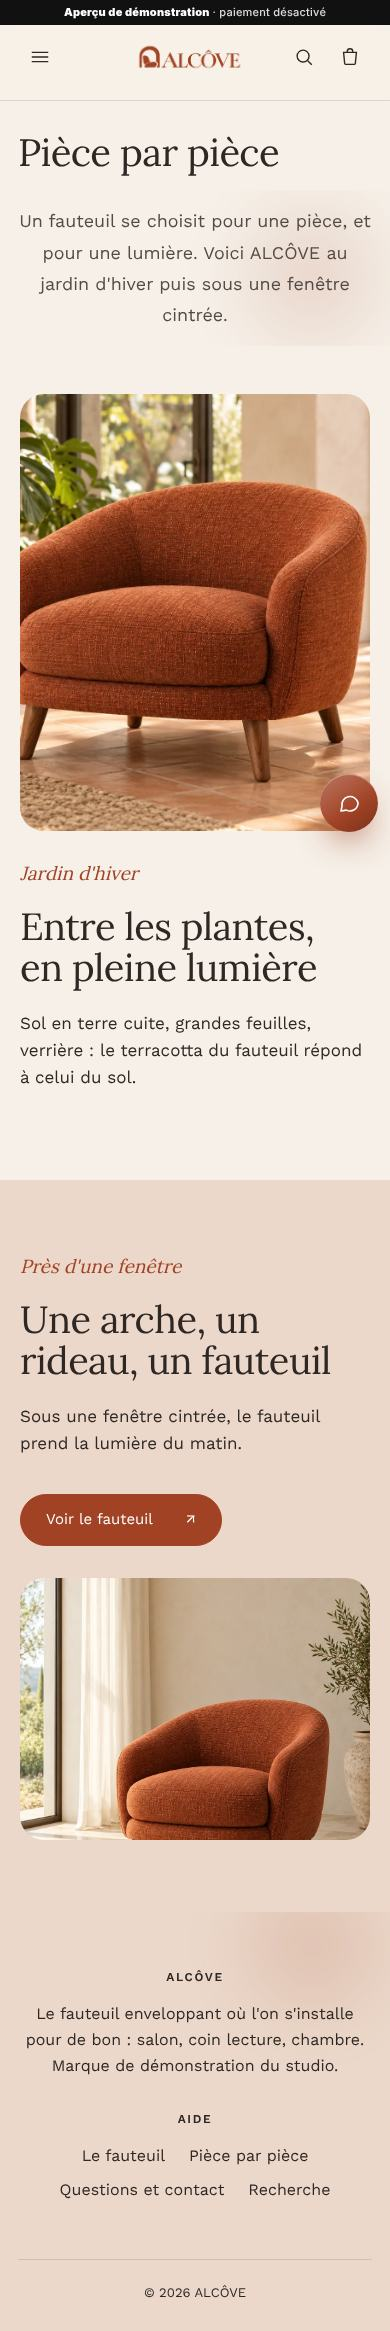
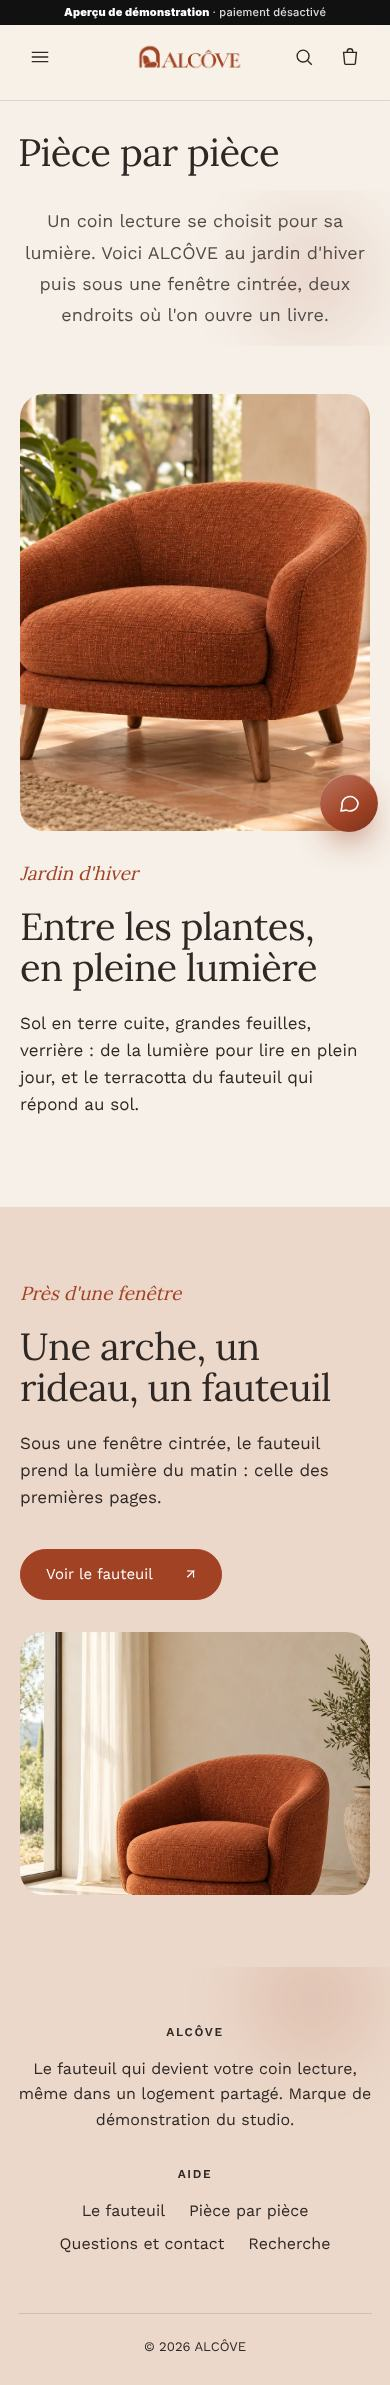
ALCÔVE : « une alcôve à soi », le coin lecture dans un logement partagé (consigne de Thomas, 21 h 45)
- Cible : le lecteur en logement partagé ; « le canapé est à tout le monde, ce fauteuil est à vous » ; « Là où vous
  lisez », « Sous la lampe, un chapitre de plus », vue de dessus « un livre à côté ».
- FAQ : où l'installer dans un logement partagé, quelle place il prend (dimensions non renseignées, dit honnêtement),
  le terracotta, l'aspect de près. Fiche, « Pièce par pièce », aide, pied, SEO. Captures régénérées.

Claude-Session: https://claude.ai/code/session_01EKtK8Za16S8DnNDefXRRF7

diff --git a/tests/heuren-alcove-fixtures.ts b/tests/heuren-alcove-fixtures.ts
@@ -87,21 +87,22 @@ export const HEUREN_FAQ_PENDING: [string, string][] = [
   ["Le bracelet se change-t-il ?", TODO("système d'attache et largeur du bracelet")],
   ["Quelle est la garantie ?", TODO("durée et conditions de garantie")],
 ];
-// ALCÔVE — fiche de stratégie (même consigne) :
-//  1. cible : une personne qui n'a pas de siège à elle dans un intérieur partagé et s'assoit toujours « en attendant » :
-//     un coin de canapé, une chaise de table ;
-//  2. tension : « Je ne suis jamais vraiment installé : toujours sur un coin de canapé. » ;
-//  3. désir : s'installer enfin, entouré de chaque côté — angle unique : s'asseoir pour de bon ;
-//  4. promesse tenable : un fauteuil dont le dossier et les accoudoirs forment un seul arrondi autour d'un coussin épais ;
-//     faits = visuels (silhouette, tissu terracotta texturé, pieds en bois brun, pièces photographiées) ; dimensions,
-//     tissu, rembourrage, entretien et montage inconnus ;
-//  5. objections : la pièce où le mettre, le terracotta avec son intérieur, l'aspect de près, prix, dimensions et commande
-//     (information dédiée) ;
-//  6. parcours : ouverture (fini le coin de canapé) → repères (ce qui vous entoure) → l'idée → sa place (lecture, chambre)
-//     → le soir → achat → FAQ « Avant de lui faire une place » → inscription.
+// ALCÔVE — fiche de stratégie (consigne de Thomas du 21 octobre, 21 h 45 ; brief, hypothèse éditoriale) :
+//  utilisateur et acheteur : un lecteur qui vit dans un logement partagé (colocation, famille) ;
+//  situation d'achat : il lit sur un coin de canapé que tout le monde utilise, ou sur son lit, faute de mieux ;
+//  tension (ses mots) : « Chez nous, le canapé est à tout le monde : je n'ai pas d'endroit pour lire tranquille. » ;
+//  désir : un espace à soi, que l'on a envie de retrouver ;
+//  angle unique : créer son coin lecture à soi ;
+//  promesse tenable : un fauteuil dont le dossier et les accoudoirs forment un seul arrondi autour d'un coussin épais,
+//  qui trouve sa place dans une chambre ou un coin de salon ; faits = visuels (silhouette, tissu terracotta texturé,
+//  pieds en bois brun, coin lecture, livre, lampe, pièces photographiées) ;
+//  objections : où l'installer, la place qu'il prend (dimensions non renseignées : le dire), le terracotta, l'aspect de
+//  près, prix et commande (information dédiée) ;
+//  exclusions : aucun confort, maintien, dimension, tissu, rembourrage ni montage inventés.
 export const ALCOVE_FAQ: [string, string][] = [
-  ["Dans quelle pièce le mettre ?", "Là où vous voulez vous poser : salon, coin lecture, chambre, près d'une fenêtre ou dans un jardin d'hiver. Nos photos le montrent dans chacune de ces pièces."],
-  ["Le terracotta ira-t-il avec mon intérieur ?", "Sur nos photos, il côtoie des bois chauds, du lin, des tapis tressés et des plantes ; contre un mur clair, il réchauffe la pièce sans la charger."],
+  ["Où l'installer dans un logement partagé ?", "Dans votre chambre, au pied du lit, ou dans un coin du salon près d'une fenêtre : là où la lumière vous permet de lire. Nos photos le montrent dans un coin lecture, une chambre et sous une fenêtre."],
+  ["Quelle place prend-il ?", "Ses dimensions ne sont pas encore renseignées dans cette démonstration : mesurez votre coin avant de le choisir."],
+  ["Le terracotta ira-t-il avec le reste de la pièce ?", "Sur nos photos, il côtoie des bois chauds, du lin, des tapis tressés et des plantes ; contre un mur clair, il réchauffe la pièce sans la charger."],
   ["À quoi ressemble-t-il de près ?", "Un tissu terracotta à la texture visible, un coussin d'assise épais et des pieds courts en bois brun : tous les gros plans sont sur la fiche."],
   ["Que puis-je faire dans cette boutique de démonstration ?", "Faire le tour du fauteuil en cinq vues et le voir dans plusieurs pièces. Le prix, les dimensions et la composition du tissu ne sont pas encore renseignés, et la commande est désactivée."],
 ];
@@ -126,7 +127,7 @@ const BRANDS: Record<ShopKitId, Brand> = {
     name: "ALCÔVE", product: "Fauteuil ALCÔVE terracotta", category: "Fauteuil",
     summary: "Fauteuil enveloppant au tissu terracotta texturé : dossier et accoudoirs arrondis d'un seul tenant, coussin d'assise épais, quatre pieds courts en bois brun.",
     facts: [["Silhouette", "dossier et accoudoirs arrondis, coussin d'assise épais"], ["Pieds", "quatre pieds courts en bois brun"]],
-    tagline: "Une alcôve à soi.", story: "ALCÔVE est né d'une envie simple : un fauteuil sans angle, dans la couleur chaude de la terre cuite.", positioning: "Un fauteuil enveloppant pour le salon, le coin lecture et la chambre.",
+    tagline: "Une alcôve à soi.", story: "ALCÔVE est né pour les lecteurs qui partagent leur logement : un fauteuil qui devient leur coin à eux.", positioning: "Un fauteuil enveloppant pour créer son coin lecture, même dans un logement partagé.",
     // Terre cuite du logo et du tissu, sable des fonds, bois des pieds.
     palette: { primary: "#A14225", secondary: "#EEE8E1", accent: "#5A3A24", light: "#F6F0E8", dark: "#2B1A12" },
   },
@@ -242,43 +243,43 @@ function curateHeuren(k: Kit) {
 function curateAlcove(k: Kit) {
   const { spec, img, section, overlay, faq, productHref } = k;
   k.demoMeta();
-  spec.store.seo = { title: "ALCÔVE | Fauteuil enveloppant terracotta, pour s'asseoir pour de bon", description: "Fini le coin de canapé : le fauteuil ALCÔVE, dossier et accoudoirs d'un seul arrondi, coussin épais, tissu terracotta et pieds en bois brun." };
+  spec.store.seo = { title: "ALCÔVE | Le fauteuil terracotta pour créer votre coin lecture", description: "Dans un logement partagé, le canapé est à tout le monde : le fauteuil ALCÔVE devient votre coin lecture, un arrondi autour d'un coussin épais." };
   k.product({
     title: "Fauteuil ALCÔVE terracotta",
-    description_html: p("Son rôle : vous donner un siège à vous, où l'on s'installe au lieu d'attendre sur un coin de canapé.") + p("Ce qu'on voit : un dossier et des accoudoirs d'un seul arrondi autour d'un coussin d'assise épais, un tissu terracotta à la texture visible, quatre pieds courts en bois brun.") + p("Où le mettre : au salon, dans un coin lecture, au pied du lit ou près d'une fenêtre ; nos photos le montrent dans chacune de ces pièces."),
+    description_html: p("Son rôle : devenir votre coin lecture, dans un logement où le canapé est à tout le monde.") + p("Ce qu'on voit : un dossier et des accoudoirs d'un seul arrondi autour d'un coussin d'assise épais, un tissu terracotta à la texture visible, quatre pieds courts en bois brun.") + p("Où le mettre : dans votre chambre, au pied du lit, ou dans un coin de salon près d'une fenêtre ; nos photos le montrent dans chacune de ces places. Ses dimensions ne sont pas encore renseignées."),
     images: ["produit-01.webp", "produit-02.webp", "produit-03.webp", "produit-04.webp", "produit-05.webp"],
-    tags: ["fauteuil", "terracotta", "salon"],
+    tags: ["fauteuil", "terracotta", "coin lecture"],
     seo: { title: "Fauteuil ALCÔVE terracotta : vues, courbes et tissu en détail", description: "Faites le tour du fauteuil ALCÔVE : trois quarts, face, profil, dos et tissu terracotta en gros plan, puis le fauteuil vu d'en haut et en situation." },
   });
 
   // ─── Accueil : une alcôve, des courbes, des pièces, puis le soir. ─────────────────────────────────────────────────
   overlay("index", [
-    section("ed-opening", { ...img("ambiance-07.webp"), layout: "arch", heading_tag: "h1", label: "Fauteuil enveloppant", heading: "Une alcôve\nà soi.", text: p("Fini le coin de canapé : un dossier et des accoudoirs d'un seul arrondi autour d'un coussin épais, dans la couleur chaude de la terre cuite."), button_label: "Voir le fauteuil", button_link: productHref, focus_x: 50, focus_y: 62, mobile_focus_x: 50, mobile_focus_y: 62, copy_surface: true, caption: "", motion: "reveal", padding_top: 48, padding_bottom: 72 }),
-    section("fs-lookbook", { ...img("ambiance-01.webp"), layout: "side", eyebrow: "Ses courbes", heading: "Ce qui vous entoure,", heading_accent: "de chaque côté", text: p("Touchez un repère : le dossier, les accoudoirs, le coussin et les pieds, un par un."), align: "left", button_label: "", button_link: "", link_label: "Voir le fauteuil", focus_x: 62, focus_y: 55, effect: "fade", stagger: true, hover: false, background: "scheme", color_scheme: "scheme-2" }, [
+    section("ed-opening", { ...img("ambiance-07.webp"), layout: "arch", heading_tag: "h1", label: "Votre coin lecture", heading: "Une alcôve\nà soi.", text: p("Dans un logement partagé, le canapé est à tout le monde. Ce fauteuil devient votre coin lecture : un arrondi qui vous entoure, une lampe, votre livre."), button_label: "Voir le fauteuil", button_link: productHref, focus_x: 50, focus_y: 62, mobile_focus_x: 50, mobile_focus_y: 62, copy_surface: true, caption: "", motion: "reveal", padding_top: 48, padding_bottom: 72 }),
+    section("fs-lookbook", { ...img("ambiance-01.webp"), layout: "side", eyebrow: "Ses courbes", heading: "Ce qui vous entoure,", heading_accent: "quand vous lisez", text: p("Touchez un repère : le dossier qui vous tient, les accoudoirs pour poser les bras, le coussin et les pieds."), align: "left", button_label: "", button_link: "", link_label: "Voir le fauteuil", focus_x: 62, focus_y: 55, effect: "fade", stagger: true, hover: false, background: "scheme", color_scheme: "scheme-2" }, [
       marker(k, 60, 33, "Le dossier, d'un seul tenant avec les accoudoirs"),
       marker(k, 80, 50, "Les accoudoirs arrondis, pour poser les bras"),
       marker(k, 56, 60, "Le coussin d'assise épais"),
       marker(k, 50, 81, "Les pieds courts en bois brun"),
     ]),
     section("rich-text", { style: "statement", align: "center", padding_top: 96, padding_bottom: 96 }, [
-      { type: "eyebrow", settings: { text: "Pour de bon" } },
-      { type: "heading", settings: { text: "Un siège où l'on s'installe, pas un siège où l'on attend.", size: "h2" } },
-      { type: "text", settings: { text: p("Pas un angle : le dossier et les accoudoirs ne forment qu'un seul arrondi autour d'un coussin épais, posé sur quatre pieds de bois brun.") } },
+      { type: "eyebrow", settings: { text: "À vous" } },
+      { type: "heading", settings: { text: "Le canapé est à tout le monde. Ce fauteuil est à vous.", size: "h2" } },
+      { type: "text", settings: { text: p("Le dossier et les accoudoirs ne forment qu'un seul arrondi autour d'un coussin épais : une place où l'on s'installe avec son livre, et que l'on retrouve chaque soir.") } },
     ]),
-    section("ed-diptych", { layout: "pair", label: "Sa place", heading: "Là où vous lisez, là où vous vous posez", text: "", button_label: "", button_link: "", motion: "reveal", padding_top: 64, padding_bottom: 64 }, [
+    section("ed-diptych", { layout: "pair", label: "Sa place", heading: "Là où vous lisez", text: "", button_label: "", button_link: "", motion: "reveal", padding_top: 64, padding_bottom: 64 }, [
       frame(k, "ambiance-02.webp", "Le coin lecture", "Une table d'appoint pour le livre et la tasse, la lumière qui entre de biais.", "landscape", { focus_x: 60, mobile_focus_x: 60 }),
-      frame(k, "ambiance-05.webp", "La chambre", "Au pied du lit : pour lire avant d'éteindre, ou poser ses affaires.", "portrait", { focus_x: 58, mobile_focus_x: 58 }),
+      frame(k, "ambiance-05.webp", "La chambre", "Au pied du lit, quand la chambre est la seule pièce rien qu'à vous.", "portrait", { focus_x: 58, mobile_focus_x: 58 }),
     ]),
-    section("fs-campaign", { ...img("ambiance-06.webp"), layout: "card", eyebrow: "Le soir", heading: "Sous la lampe,", heading_accent: "on y reste", text: p("Une lampe en papier, un tapis épais : quand la lumière baisse, le terracotta se fait plus profond."), align: "left", label: "", offer_title: "", offer_text: "", period_text: "", conditions: "", cta_label: "Voir le fauteuil", cta_link: productHref, cta2_label: "Pièce par pièce", cta2_link: "/pages/piece-par-piece", focus_x: 62, focus_y: 55, effect: "fade", stagger: false, hover: false, background: "scheme", color_scheme: "scheme-3" }),
+    section("fs-campaign", { ...img("ambiance-06.webp"), layout: "card", eyebrow: "Le soir", heading: "Sous la lampe,", heading_accent: "un chapitre de plus", text: p("Une lampe en papier, un tapis épais : quand la maison se calme, on reprend le livre là où on l'avait laissé."), align: "left", label: "", offer_title: "", offer_text: "", period_text: "", conditions: "", cta_label: "Voir le fauteuil", cta_link: productHref, cta2_label: "Pièce par pièce", cta2_link: "/pages/piece-par-piece", focus_x: 62, focus_y: 55, effect: "fade", stagger: false, hover: false, background: "scheme", color_scheme: "scheme-3" }),
     section("featured-purchase", { label: "Le fauteuil", heading: "Fauteuil ALCÔVE terracotta", text: p("Avant de lui faire une place, faites-en le tour : trois quarts, face, profil, dos, puis le tissu en gros plan."), product: SHOP_KIT_HANDLE.alcove, product_target: "product:main", purchase_style: "outlined", purchase_enabled: false, image_fit: "contain", gallery_limit: 5, enable_zoom: true, link_label: "Voir la fiche complète" }),
-    faq("Avant de lui faire une place", ALCOVE_FAQ.slice(0, 4), "cards", "stacked", "La pièce, les couleurs, l'aspect de près, ce que permet la démonstration.", { color_scheme: "scheme-2" }),
+    faq("Avant de créer votre coin", ALCOVE_FAQ.slice(0, 5), "cards", "stacked", "Où l'installer, la place qu'il prend, les couleurs, l'aspect de près, la démonstration.", { color_scheme: "scheme-2" }),
     section("newsletter", { eyebrow: "Nouvelles d'ALCÔVE", heading: "Être prévenu quand ALCÔVE ouvre", text: p("Un e-mail à l'ouverture de la boutique. Rien d'autre."), button_label: "Me prévenir", preview_note: true, legal: p("Désinscription possible à tout moment depuis chaque e-mail.") }),
   ]);
 
   // ─── Fiche produit ──────────────────────────────────────────────────────────────────────────────────────────────
   k.mainProduct({
-    eyebrow: "Fauteuil · pour s'installer",
-    text: "Pour s'asseoir pour de bon : un dossier et des accoudoirs d'un seul arrondi autour d'un coussin d'assise épais, en tissu terracotta texturé.",
+    eyebrow: "Fauteuil · votre coin lecture",
+    text: "Votre coin lecture à vous : un dossier et des accoudoirs d'un seul arrondi autour d'un coussin d'assise épais, en tissu terracotta texturé.",
     highlights: "Dossier et accoudoirs arrondis\nCoussin d'assise épais\nQuatre pieds courts en bois brun\nTissu terracotta à la texture visible",
     description: spec.store.product.description_html,
     specs: "dimensions, hauteur d'assise, poids, composition du tissu et du rembourrage, essence du bois des pieds, entretien",
@@ -287,7 +288,7 @@ function curateAlcove(k: Kit) {
     settings: { gallery_layout: "carousel", gallery_ratio: "square", enable_zoom: true, sticky_bar: true, color_scheme: "scheme-1" },
   });
   overlay(k.productKey(), [
-    section("image-with-text", { image_asset: img("ambiance-09.webp").image_asset, layout: "image-left", ratio: "square", reveal: "up", parallax: false, eyebrow: "Vu d'en haut", heading: "Un arc autour de l'assise", text: p("Vu du dessus, le dossier et les accoudoirs se rejoignent autour du coussin : de chaque côté, quelque chose vous tient."), button_label: "", button_link: "", color_scheme: "scheme-2" }),
+    section("image-with-text", { image_asset: img("ambiance-09.webp").image_asset, layout: "image-left", ratio: "square", reveal: "up", parallax: false, eyebrow: "Vu d'en haut", heading: "Un arc autour de l'assise, un livre à côté", text: p("Vu du dessus, le dossier et les accoudoirs se rejoignent autour du coussin ; sur la table d'appoint, le livre attend."), button_label: "", button_link: "", color_scheme: "scheme-2" }),
     section("ed-diptych", { layout: "side", label: "Deux intérieurs", heading: "Avec du bois ancien ou face à une verrière", text: "", button_label: "", button_link: "", motion: "reveal", padding_top: 64, padding_bottom: 64 }, [
       frame(k, "ambiance-04.webp", "Intérieur rétro", "Près d'un buffet en bois et d'une table basse ronde.", "portrait", { focus_x: 62 }),
       frame(k, "ambiance-08.webp", "Loft", "Face à une grande verrière, sur un tapis épais.", "portrait", { focus_x: 52 }),
@@ -296,14 +297,14 @@ function curateAlcove(k: Kit) {
   ]);
 
   // ─── Pages ──────────────────────────────────────────────────────────────────────────────────────────────────────
-  k.page("piece-par-piece", "Pièce par pièce", { title: "Pièce par pièce : le fauteuil ALCÔVE chez vous | ALCÔVE", description: "Jardin d'hiver, fenêtre cintrée : le fauteuil ALCÔVE terracotta photographié dans plusieurs pièces, pour imaginer sa place chez vous." }, [
-    ["intro", section("rich-text", { style: "plain", align: "center", color_scheme: "scheme-1", padding_top: 24, padding_bottom: 24 }, [{ type: "text", settings: { text: p("Un fauteuil se choisit pour une pièce, et pour une lumière. Voici ALCÔVE au jardin d'hiver puis sous une fenêtre cintrée.") } }])],
-    ["jardin", section("ed-scene", { ...img("ambiance-10.webp"), layout: "panorama", label: "Jardin d'hiver", heading: "Entre les plantes, en pleine lumière", text: p("Sol en terre cuite, grandes feuilles, verrière : le terracotta du fauteuil répond à celui du sol."), button_label: "", button_link: "", caption: "", focus_x: 55, focus_y: 58, mobile_focus_x: 60, mobile_focus_y: 58, motion: "reveal", padding_top: 48, padding_bottom: 72 })],
-    ["fenetre", section("ed-scene", { ...img("ambiance-03.webp"), layout: "closing", label: "Près d'une fenêtre", heading: "Une arche, un rideau, un fauteuil", text: p("Sous une fenêtre cintrée, le fauteuil prend la lumière du matin."), button_label: "Voir le fauteuil", button_link: productHref, caption: "", motion: "reveal", color_scheme: "scheme-2", padding_top: 88, padding_bottom: 88 })],
+  k.page("piece-par-piece", "Pièce par pièce", { title: "Pièce par pièce : où installer son coin lecture | ALCÔVE", description: "Jardin d'hiver, fenêtre cintrée : le fauteuil ALCÔVE là où la lumière permet de lire, pour imaginer votre coin lecture chez vous." }, [
+    ["intro", section("rich-text", { style: "plain", align: "center", color_scheme: "scheme-1", padding_top: 24, padding_bottom: 24 }, [{ type: "text", settings: { text: p("Un coin lecture se choisit pour sa lumière. Voici ALCÔVE au jardin d'hiver puis sous une fenêtre cintrée, deux endroits où l'on ouvre un livre.") } }])],
+    ["jardin", section("ed-scene", { ...img("ambiance-10.webp"), layout: "panorama", label: "Jardin d'hiver", heading: "Entre les plantes, en pleine lumière", text: p("Sol en terre cuite, grandes feuilles, verrière : de la lumière pour lire en plein jour, et le terracotta du fauteuil qui répond au sol."), button_label: "", button_link: "", caption: "", focus_x: 55, focus_y: 58, mobile_focus_x: 60, mobile_focus_y: 58, motion: "reveal", padding_top: 48, padding_bottom: 72 })],
+    ["fenetre", section("ed-scene", { ...img("ambiance-03.webp"), layout: "closing", label: "Près d'une fenêtre", heading: "Une arche, un rideau, un fauteuil", text: p("Sous une fenêtre cintrée, le fauteuil prend la lumière du matin : celle des premières pages."), button_label: "Voir le fauteuil", button_link: productHref, caption: "", motion: "reveal", color_scheme: "scheme-2", padding_top: 88, padding_bottom: 88 })],
   ]);
-  k.page("aide", "Questions et contact", { title: "Questions et contact | ALCÔVE, fauteuil terracotta", description: "La pièce où le mettre, le terracotta avec votre intérieur, l'aspect de près, ce que permet la démonstration : nos réponses, et un formulaire." }, [
+  k.page("aide", "Questions et contact", { title: "Questions et contact | ALCÔVE, votre coin lecture", description: "Où l'installer dans un logement partagé, la place qu'il prend, le terracotta, l'aspect de près : nos réponses, et un formulaire." }, [
     ["faq", faq("Questions fréquentes", [...ALCOVE_FAQ, ...ALCOVE_FAQ_PENDING], "numbered", "side", "", { color_scheme: "scheme-1" })],
-    ["form", section("contact-form", { eyebrow: "Contact", heading: "Une question avant de lui faire une place ?", text: p("Écrivez-nous : le formulaire vérifie les champs avant l'envoi. Dans cette démonstration, aucun message n'est réellement transmis."), email: "", hours: "", response: "", preview_note: true, color_scheme: "scheme-2", padding_top: 64, padding_bottom: 96 })],
+    ["form", section("contact-form", { eyebrow: "Contact", heading: "Une question avant de créer votre coin ?", text: p("Écrivez-nous : le formulaire vérifie les champs avant l'envoi. Dans cette démonstration, aucun message n'est réellement transmis."), email: "", hours: "", response: "", preview_note: true, color_scheme: "scheme-2", padding_top: 64, padding_bottom: 96 })],
   ]);
 
   // ─── Menus, en-tête « boutique éditoriale » (le fauteuil dans le sous-menu), pied « empilé » ──────────────────────
@@ -324,7 +325,7 @@ function curateAlcove(k: Kit) {
   const footer = Object.values(spec.groups.footer.sections).find((s) => s.type === "footer")!;
   footer.settings = { ...footer.settings, style: "stacked", show_wordmark: false, show_policies: false, show_payment: false, color_scheme: "scheme-2", logo_asset: "" };
   footer.blocks = {
-    about: { type: "text", settings: { heading: "ALCÔVE", text: p("Le fauteuil enveloppant où l'on s'installe pour de bon : salon, coin lecture, chambre. Marque de démonstration du studio.") } },
+    about: { type: "text", settings: { heading: "ALCÔVE", text: p("Le fauteuil qui devient votre coin lecture, même dans un logement partagé. Marque de démonstration du studio.") } },
     links: { type: "links", settings: { heading: "Aide", menu: "footer" } },
   };
   footer.block_order = ["about", "links"];

diff --git a/docs/COPYWRITING-themes.md b/docs/COPYWRITING-themes.md
@@ -127,19 +127,27 @@ préparer votre cadeau »), fiche (« Montre à aiguilles · à offrir »), « A
 Visuels cohérents (écrin, tenues sobres, voyage, chevet) ; la scène sur pierre noire passe à l'inscription. Code :
 `tests/heuren-alcove-fixtures.ts`. Preuves : `docs/preuves/copywriting/heuren/`.
 
-### ALCÔVE — E-commerce, mono-produit — **réécrit**
+### ALCÔVE — E-commerce, mono-produit — **réécrit (consigne 21 h 45)** : le coin lecture à soi
 
-1. **Cible** : une personne qui n'a pas de siège à elle dans un intérieur partagé et s'assoit toujours « en attendant ».
-2. **Tension** : « Je ne suis jamais vraiment installé : toujours sur un coin de canapé. »
-3. **Désir et angle** : s'installer enfin, entouré de chaque côté → s'asseoir pour de bon.
-4. **Promesse et faits** : dossier et accoudoirs d'un seul arrondi autour d'un coussin épais ; faits = visuels. Confort,
-   dimensions, tissu, rembourrage, entretien et montage jamais affirmés.
-5. **Objections** : la pièce, le terracotta avec son intérieur, l'aspect de près, prix, dimensions et commande (information dédiée).
-6. **Parcours** : « Une alcôve à soi. » (fini le coin de canapé) → « Ce qui vous entoure, de chaque côté » → « Un siège où
-   l'on s'installe, pas un siège où l'on attend » → sa place (lecture, chambre) → « Sous la lampe, on y reste » → achat → FAQ → inscription.
+| | |
+|---|---|
+| Utilisateur et acheteur | un lecteur qui vit dans un logement partagé (colocation, famille) (brief) |
+| Situation d'achat | il lit sur un coin de canapé que tout le monde utilise, ou sur son lit, faute de mieux |
+| Tension (ses mots) | « Chez nous, le canapé est à tout le monde : je n'ai pas d'endroit pour lire tranquille. » |
+| Désir | un espace à soi, que l'on a envie de retrouver |
+| Angle unique | créer son coin lecture à soi |
+| Promesse tenable | un fauteuil dont le dossier et les accoudoirs forment un seul arrondi autour d'un coussin épais, qui trouve sa place dans une chambre ou un coin de salon |
+| Objections traitées | où l'installer dans un logement partagé, quelle place il prend (« dimensions non renseignées : mesurez votre coin »), le terracotta, l'aspect de près, la démo |
+| **Faits** | visuels : silhouette, tissu terracotta texturé, pieds en bois brun, coin lecture avec table d'appoint, vue de dessus avec livre, lampe du soir |
+| **Non renseigné** | dimensions, tissu, rembourrage, entretien, livraison et montage, garantie, prix |
+| Exclusions | aucun confort, maintien, dimension ni matière inventés |
 
-Pages réécrites : accueil, fiche (« Un arc autour de l'assise »), « Pièce par pièce », aide, pied, SEO. Preuves :
-`docs/preuves/copywriting/alcove/`.
+Pages : accueil (« Une alcôve à soi. » avec « Votre coin lecture » et « le canapé est à tout le monde » → « Ce qui vous
+entoure, *quand vous lisez* » → « Le canapé est à tout le monde. Ce fauteuil est à vous. » → « Là où vous lisez » →
+« Sous la lampe, *un chapitre de plus* » → achat → « Avant de créer votre coin »), fiche (« Fauteuil · votre coin
+lecture », vue de dessus « un livre à côté »), « Pièce par pièce » (la lumière pour lire), aide, pied, SEO. Visuels
+cohérents (coin lecture, livre, lampe) ; aucun ne montre un logement visiblement partagé (sans personne, règle du studio).
+Code : `tests/heuren-alcove-fixtures.ts`. Preuves : `docs/preuves/copywriting/alcove/`.
 
 ### NOCTIL — Spécialisée — **réécrit (consigne 21 h 45)** : l'enfant utilise, le parent achète
 
